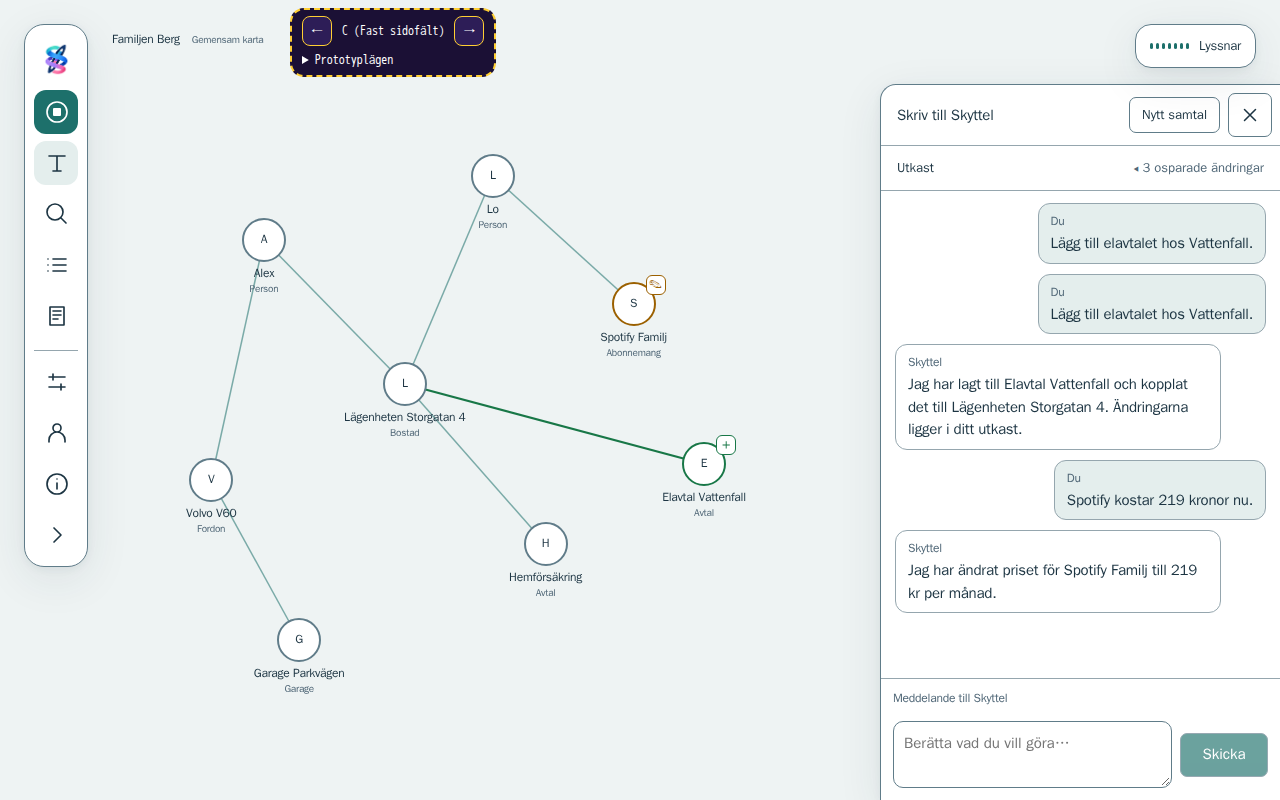
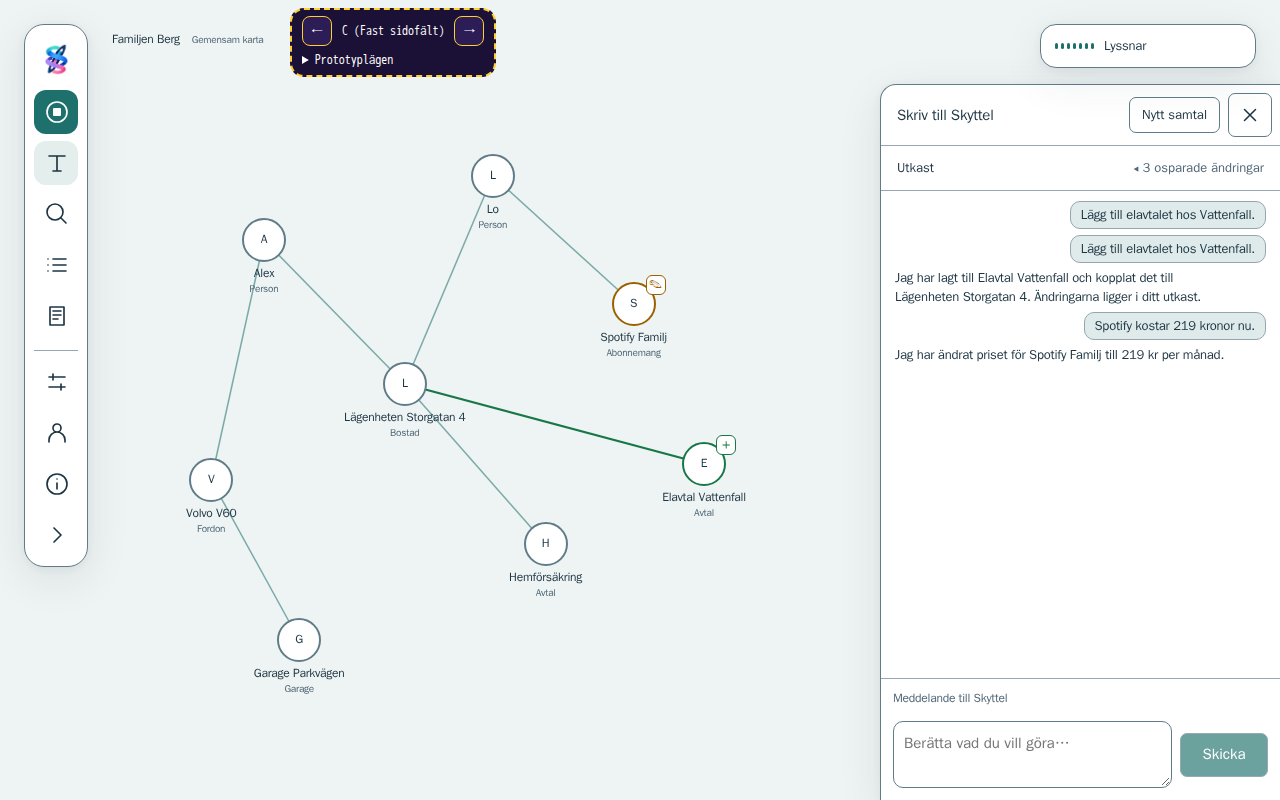
prototype: stoppikon i röstrutan och tätare samtalstext
Efter beställarens tillägg i viscalyx/skyttel#180:

- Avbryt i röstrutan är en ikon utan text, och röstrutan har samma storlek
  i alla lägen.
- Samtalstexten har mindre text och inga synliga namn. Användarens text
  står i en tonad ruta och Skyttels text utan ruta.

diff --git a/src/client/text-mode-prototype.css b/src/client/text-mode-prototype.css
@@ -213,18 +213,45 @@
   display: inline-flex;
   align-items: center;
   gap: 10px;
-  min-height: 44px;
   font-size: 13px;
   font-weight: 600;
   white-space: nowrap;
 }
+/* One size at all times: the status word and the stop icon have reserved places. */
 .tp-voicebox.floating {
   position: fixed;
   z-index: 25;
-  padding: 6px 8px 6px 14px;
+  box-sizing: border-box;
+  width: 216px;
+  height: 44px;
+  padding: 0 4px 0 14px;
 }
-.tp-voicebox.floating > :last-child:not(button) {
-  margin-right: 6px;
+.tp-voicebox [role="status"] {
+  flex: 1;
+  min-width: 0;
+  overflow: hidden;
+  text-overflow: ellipsis;
+}
+.tp-stop-slot {
+  flex: none;
+  width: 36px;
+  height: 36px;
+}
+.tp-root .tp-stop {
+  display: grid;
+  place-items: center;
+  width: 36px;
+  height: 36px;
+  min-width: 0;
+  min-height: 0;
+  padding: 0;
+  border-color: var(--proposal-removed);
+  border-radius: 50%;
+  color: var(--proposal-removed);
+}
+.tp-stop svg {
+  width: 22px;
+  height: 22px;
 }
 .tp-variant-a .tp-voicebox.floating {
   right: 24px;
@@ -238,44 +265,31 @@
   flex: 1;
   min-height: 96px;
   margin: 0;
-  padding: 12px 14px;
+  padding: 10px 14px;
   overflow-y: auto;
   overscroll-behavior: contain;
   list-style: none;
   display: flex;
   flex-direction: column;
-  gap: 10px;
+  gap: 6px;
+  font-size: 13px;
+  line-height: 1.4;
 }
 .tp-empty {
   color: var(--space-muted);
-  font-size: 13px;
 }
+/* Skyttel's text is plain; the user's own text sits in a tinted box to the right. */
 .tp-row {
-  max-width: 88%;
-  padding: 8px 12px;
-  border: 1px solid var(--space-line);
-  border-radius: 12px;
-}
-.tp-row.user {
-  align-self: flex-end;
-  background: color-mix(in srgb, var(--space-accent), var(--space-surface) 88%);
-}
-.tp-row strong {
-  display: flex;
-  align-items: center;
-  gap: 6px;
-  color: var(--space-muted);
-  font-size: 12px;
-}
-.tp-row p {
-  margin: 2px 0 0;
+  max-width: 92%;
   white-space: pre-wrap;
   overflow-wrap: anywhere;
 }
-.tp-spoken svg {
-  display: block;
-  width: 13px;
-  height: 13px;
+.tp-row.user {
+  align-self: flex-end;
+  padding: 4px 10px;
+  border: 1px solid var(--space-line);
+  border-radius: 10px;
+  background: color-mix(in srgb, var(--space-accent), var(--space-surface) 86%);
 }
 .tp-row.working {
   align-self: stretch;
@@ -284,7 +298,6 @@
   align-items: center;
   justify-content: space-between;
   gap: 12px;
-  border-style: dashed;
   color: var(--space-muted);
 }
 .tp-notice {

diff --git a/src/client/TextModePrototype.tsx b/src/client/TextModePrototype.tsx
@@ -471,7 +471,10 @@ function CancelButton({ c }: { c: Conversation }) {
   ) : null;
 }
 
-/** The small voice box: waveform and one status word. Its full behaviour belongs to issue 182. */
+/**
+ * The small voice box: waveform, one status word and a stop icon. The box keeps one size; the
+ * place for the icon is always there. Its full behaviour belongs to issue 182.
+ */
 function VoiceBox({
   c,
   cancel,
@@ -486,7 +489,21 @@ function VoiceBox({
     <div className={`tp-voicebox${floating ? ' floating tp-surface' : ''}`}>
       <Wave active={c.talking || c.speaking} muted={c.mic !== 'on' && !c.speaking} />
       <span role="status">{c.statusWord}</span>
-      {cancel && <CancelButton c={c} />}
+      <span className="tp-stop-slot">
+        {cancel && c.busy && (
+          <button
+            type="button"
+            className="tp-stop"
+            aria-label="Avbryt"
+            title="Avbryt"
+            onClick={c.cancel}
+          >
+            <svg viewBox="0 0 24 24" aria-hidden="true">
+              <rect x="7" y="7" width="10" height="10" rx="2" fill="currentColor" />
+            </svg>
+          </button>
+        )}
+      </span>
     </div>
   );
 }
@@ -547,8 +564,8 @@ function Transcript({ c, cancelInLog }: { c: Conversation; cancelInLog?: boolean
       )}
       {c.rows.map((row) => (
         <li key={row.id} className={`tp-row ${row.role}`}>
-          <strong>{row.role === 'user' ? 'Du' : 'Skyttel'}</strong>
-          <p>{row.text}</p>
+          <span className="tp-sr">{row.role === 'user' ? 'Du: ' : 'Skyttel: '}</span>
+          {row.text}
         </li>
       ))}
       {c.busy && (cancelInLog || c.writtenBusy) && (

diff --git a/src/client/text-mode-prototype-assets/README.md b/src/client/text-mode-prototype-assets/README.md
@@ -37,7 +37,7 @@ piltangenterna. Adressen ändras, så en variant går att länka till.
 | Variant | Adress | Textvyn | Röstrutan | **Avbryt** | Utkastlistan |
 | --- | --- | --- | --- | --- | --- |
 | A, Fritt fönster | `&variant=A` | Flyttbart fönster som kartans övriga verktyg. På mobil ett blad nedifrån. | Egen liten ruta nere till höger. | Talat uppdrag: sist i samtalstexten. Skrivet meddelande: **Skicka** blir **Avbryt**. | Fälls ut till höger om samtalstexten. Fönstret blir bredare. |
-| C, Fast sidofält | `&variant=C` | Sidofält vid högerkanten som knuffar undan kartan. Det ligger under röstrutan. | Samma ruta på samma plats uppe till höger, oavsett om textvyn är öppen eller stängd. | Talat uppdrag: i röstrutan. Skrivet meddelande: **Skicka** blir **Avbryt**. | Fälls ut till vänster om samtalstexten. Sidofältet blir bredare. |
+| C, Fast sidofält | `&variant=C` | Sidofält vid högerkanten som knuffar undan kartan. Det ligger under röstrutan. | Samma ruta på samma plats uppe till höger, oavsett om textvyn är öppen eller stängd. | Talat uppdrag: en stoppikon i röstrutan. Skrivet meddelande: **Skicka** blir **Avbryt**. | Fälls ut till vänster om samtalstexten. Sidofältet blir bredare. |
 
 Raden **Utkast** ovanför samtalstexten fäller ut och fäller ihop
 utkastlistan. På mobil finns ingen plats bredvid samtalstexten, så där
@@ -145,5 +145,13 @@ Beställarens andra genomgång den 1 oktober 2026:
   gäller tills användaren lämnar hushållets karta eller laddar om sidan.
 - Vid bruten kontakt går meddelandefältet att skriva i. Bara **Skicka** är
   avstängd.
+
+Tillägg från beställaren samma dag:
+
+- **Avbryt** i röstrutan är bara en ikon, utan text. Röstrutan har samma
+  storlek hela tiden; platsen för ikonen finns alltid.
+- Samtalstexten är tätare och har mindre text. Raderna har inga synliga
+  namn. Användarens text står i en tonad ruta till höger, och Skyttels text
+  står utan ruta. Skärmläsare får fortfarande veta vem som sa vad.
 
 Ärendet är inte stängt ännu. Beslutet skrivs i ärendet.
